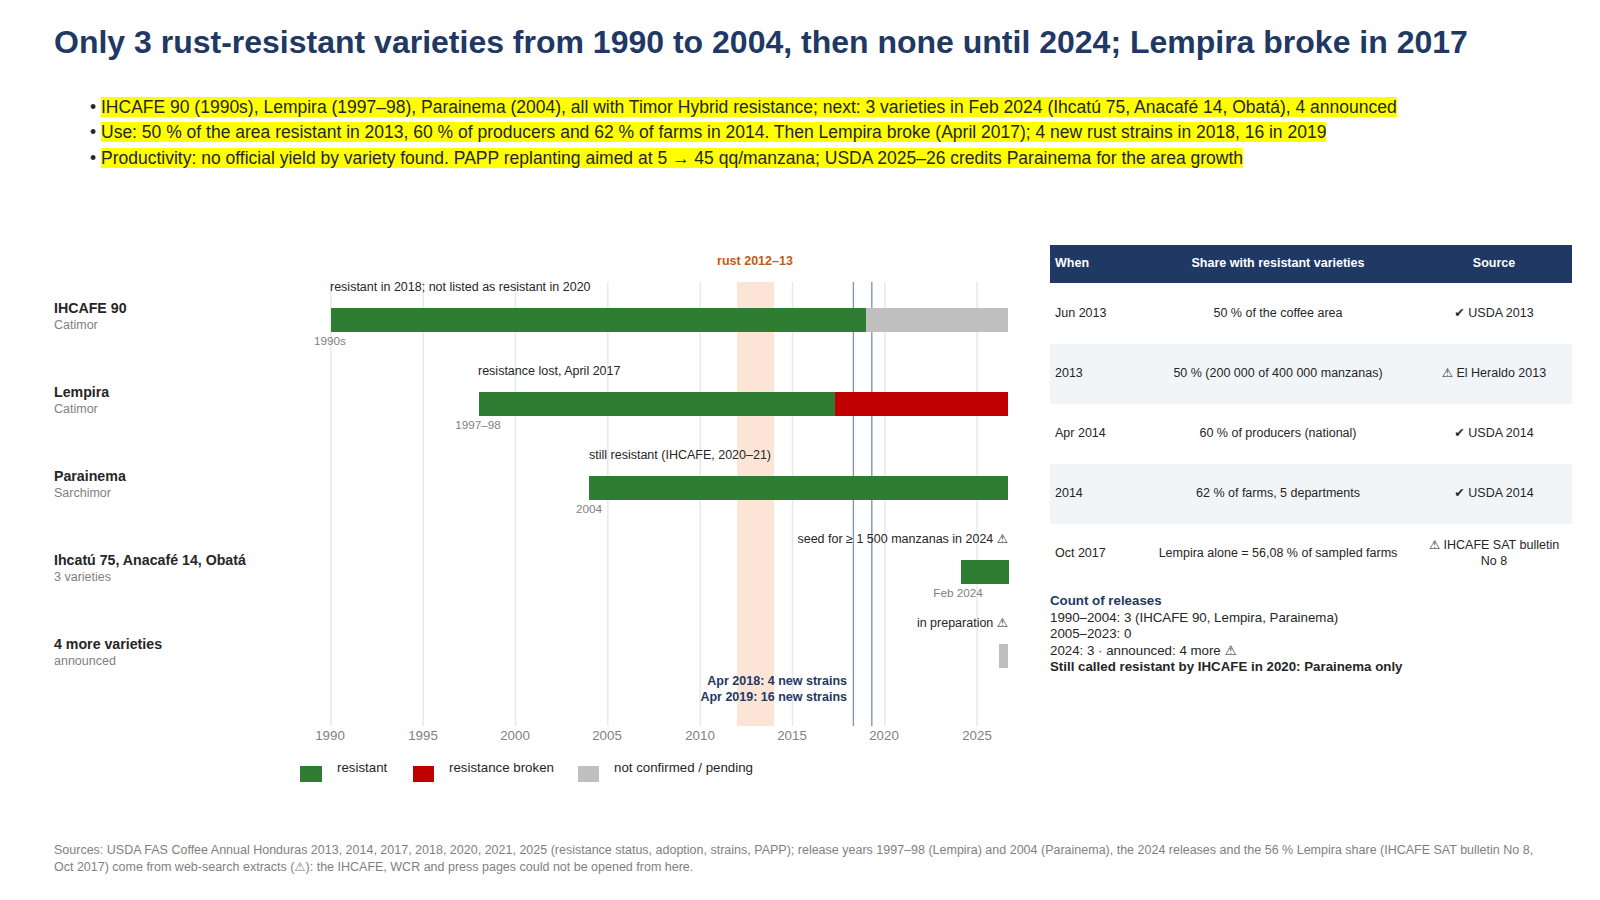
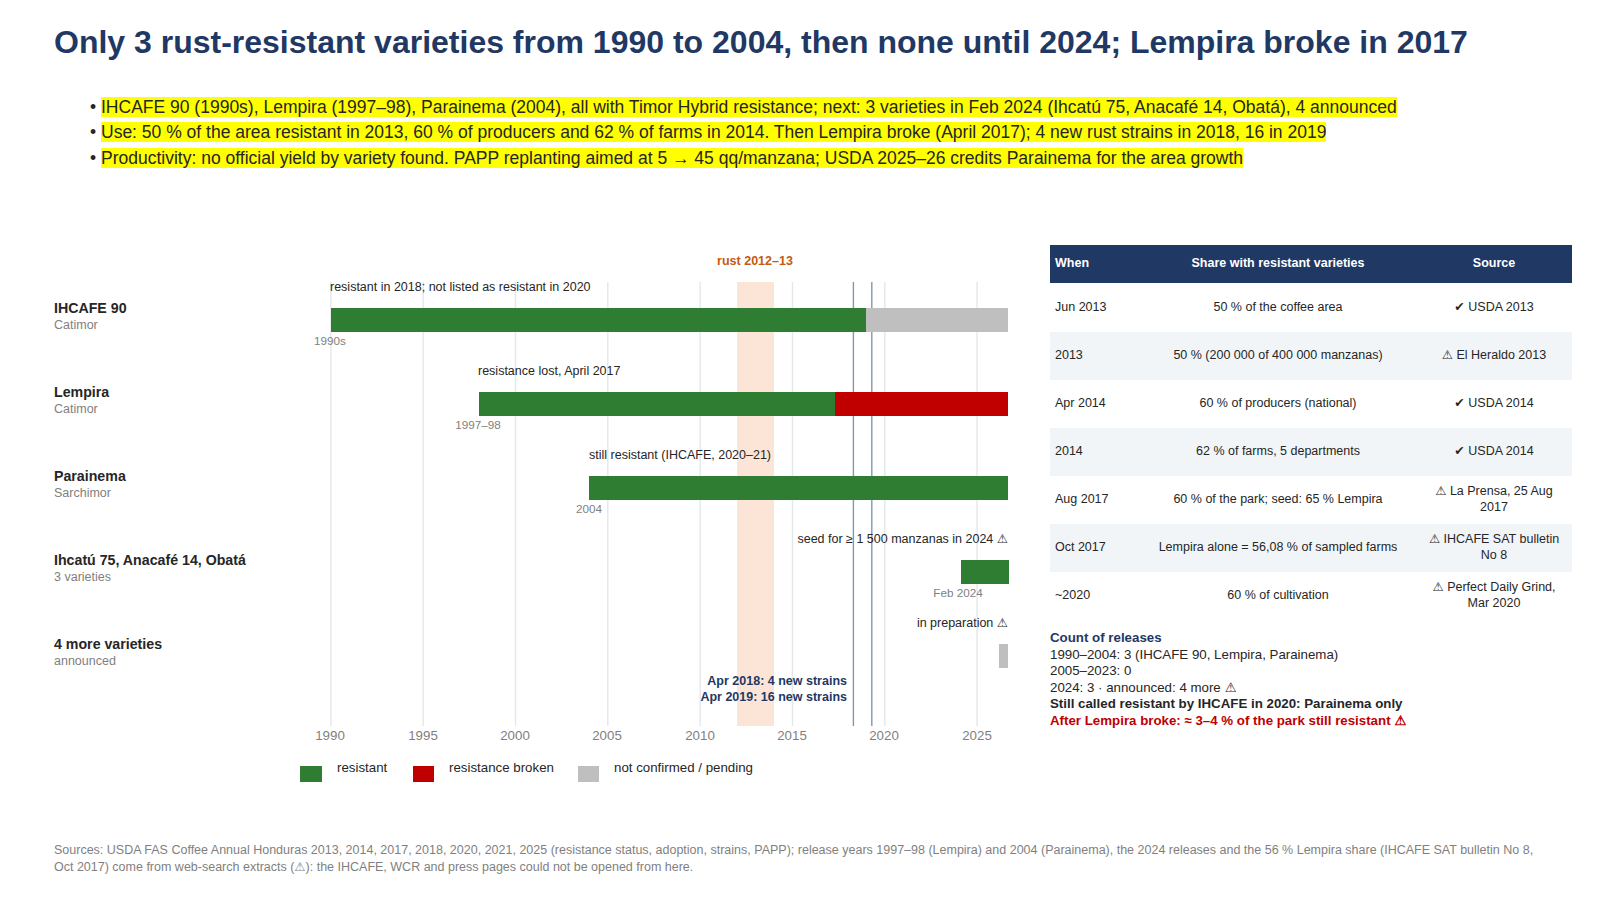
Add Varieties sheet to the Honduras area-drivers workbook
Year-by-year rust-resistant share (surveys 2013, 2014, 2017, 2020, each marked
read or unverified), Lempira share, events (releases, resistance loss, new
strains, renovation programmes), the IHCAFE releases, and an editable estimate
of the share still resistant after Lempira broke in April 2017. The deck and
the finance workbook pick up the new adoption points.

Claude-Session: https://claude.ai/code/session_01GCSUFXh2mYdWNgg7VCeE1G

diff --git a/research/honduras/excel/build_drivers_xlsx.py b/research/honduras/excel/build_drivers_xlsx.py
@@ -46,6 +46,7 @@ rg = wb.add('Regimes')
 mg = wb.add('Margin')
 rw = wb.add('Rust_2012')
 qt = wb.add('USDA_quotes')
+vt = wb.add('Varieties')
 
 # ---------------- Annual ----------------
 cols = [('Year (MY start)', None), ('Marketing year', None), ('Bearing area (1000 ha)', 'bear'), ('Non-bearing area (1000 ha)', 'nonb'),
@@ -252,6 +253,81 @@ for k, q in enumerate(QUOTES):
 qt.widths = {1: 10, 2: 11, 3: 110, 4: 28}
 
 # ---------------- README ----------------
+# ---------------- Varieties ----------------
+sys.path.insert(0, DATA)
+import finance_varieties as FV
+OKS, WARNS = Style(bold=True, color='2E7D32'), Style(bold=True, color='C00000')
+TAGV = {'USDA': ('✔ USDA report (read)', OKS), 'PRESS': ('⚠ web extract, not verified', WARNS)}
+vt.set(1, 1, 'Rust-resistant varieties: what is planted, what still resists (2005–2026)', TITLE)
+vt.set(2, 1, 'One row per marketing year. Areas come from the Annual sheet (formulas). Resistant share = only the survey figures found, never interpolated. '
+             '✔ = read in a USDA report; ⚠ = web-search extract, page blocked here, to be checked.', SUB)
+vt.row(4, 1, ['Year (MY start)', 'Bearing area (1000 ha)', 'Non-bearing area (1000 ha)', 'Resistant share (%)', 'What the % measures', 'Status',
+              'Lempira share (%)', 'Event that year', 'Source'], H)
+OBS = {}
+for a_ in FV.ADOPTION:
+    y_ = 2020 if a_['when'] == '~2020' else int(a_['when'][-4:])
+    OBS.setdefault(y_, []).append(a_)
+EVENTS = {2012: 'Rust epidemic starts (Central America)', 2013: 'Rust: 25 % of area hit (71 000 ha); emergency credit; 50 % of area still susceptible',
+          2014: 'April survey: national incidence 12 %; early-warning system (SAT) set up', 2015: 'PAPP / PEPP replanting for ~23 000 small producers (1 manzana, no interest)',
+          2016: 'Renovated plots start bearing', 2017: 'April: IHCAFE confirms Lempira has lost its resistance (3 % of Lempira plants infected)',
+          2018: 'April: 4 new rust strains; Parainema and IHCAFE 90 still resistant', 2019: 'April: 16 new rust strains identified',
+          2020: 'USDA: only Parainema named as still resistant', 2021: 'Eta and Iota: 15–25 % incidence in 5 departments (end 2020)',
+          2023: 'IHCAFE renovation programme 2023–2027: 33 000 producers, 250 000 manzanas (63 % of the park)',
+          2024: 'Feb: 3 new varieties (Ihcatú 75, Anacafé 14 SHN, Obatá SHN) ⚠; seed for ≥ 1 500 manzanas',
+          2025: 'USDA: area growth "driven by the introduction of the Parainema variety"; ≥ 4 more varieties announced ⚠',
+          2026: 'March: national incidence 8.44 %, highest reported since 2014'}
+VR0 = 5
+for i, y in enumerate(Y):
+    r = VR0 + i
+    ra = R0 + i
+    vt.set(r, 1, y, C)
+    vt.set(r, 2, A['bearing_kha'][i], F0, 'Annual!%s%d' % (col_letter(CI['bear']), ra))
+    vt.set(r, 3, A['nonbearing_kha'][i], F0, 'Annual!%s%d' % (col_letter(CI['nonb']), ra))
+    obs = OBS.get(y, [])
+    main = [o for o in obs if o.get('resistant') is not None]
+    if main:
+        o = sorted(main, key=lambda o: o['status'] != 'USDA')[0]
+        vt.set(r, 4, o['resistant'], IN0)
+        vt.set(r, 5, '; '.join('%s: %d %% of %s' % (x['when'], x['resistant'], x['scope']) for x in main), WRAP)
+        vt.set(r, 6, TAGV[o['status']][0], TAGV[o['status']][1])
+        vt.set(r, 9, '; '.join(x['src'] for x in main), WRAP)
+    lem = [o for o in obs if o.get('lempira')]
+    if lem:
+        vt.set(r, 7, lem[0]['lempira'], IN2)
+    vt.set(r, 8, EVENTS.get(y, ''), WRAP)
+r = VR0 + len(Y) + 1
+vt.set(r, 1, 'Varieties released by IHCAFE', B)
+r += 1
+vt.row(r, 1, ['Variety', 'Family', 'Released', '', 'Resistance status', 'Release year status', 'Year resistance lost', 'Source'], H)
+for v in FV.VARIETIES:
+    r += 1
+    vt.row(r, 1, [v['name'], v['family'], v['released'], '', v['resistance'], TAGV[v['year_status']][0], v['broke'] or '', v['src']], WRAP)
+r += 2
+vt.set(r, 1, 'After April 2017: how much of the park still resists? (order of magnitude, from two web extracts; edit the blue cells)', B)
+E0 = r + 1
+est = [('Share of the park in "resistant" varieties, Aug 2017 (La Prensa ⚠)', 60, None, IN0),
+       ('Lempira share of the farms monitored by the early-warning system, Oct 2017 (IHCAFE bulletin No 8 ⚠)', 56.08, None, IN2),
+       ('Other resistant varieties (IHCAFE 90, Parainema): difference', 60 - 56.08, 'MAX(0,B%d-B%d)' % (E0, E0 + 1), F1),
+       ('Resistance of IHCAFE 90 to the new strain, % (IHCAFE via La Prensa ⚠)', 80, None, IN0),
+       ('Resistance of Parainema to the new strain, % (same source ⚠)', 100, None, IN0),
+       ('Share of the park still resistant after April 2017, low (all IHCAFE 90)', (60 - 56.08) * 0.8, 'B%d*B%d/100' % (E0 + 2, E0 + 3), F1),
+       ('Share of the park still resistant after April 2017, high (all Parainema)', (60 - 56.08) * 1.0, 'B%d*B%d/100' % (E0 + 2, E0 + 4), F1),
+       ('Seed demand 2017: Lempira, % (La Prensa ⚠)', 65, None, IN0),
+       ('Seed demand 2017: other varieties (not Catuaí), %', 10, None, IN0),
+       ('Lempira share of resistant seed sold in 2017, at least', 65 / 75, 'B%d/(B%d+B%d)' % (E0 + 7, E0 + 7, E0 + 8), Style(fmt='0.0%'))]
+for k, (lab, val, f, st_) in enumerate(est):
+    vt.set(E0 + k, 1, lab, WRAP)
+    vt.set(E0 + k, 2, val, st_, f)
+r = E0 + len(est) + 1
+for t in ['Reading: in 2013–2020 about 60 % of the park was planted with varieties called resistant, but most of it was Lempira. When Lempira broke in April 2017, '
+          'the share that still resisted fell to a few percent (IHCAFE 90 and Parainema), which is why the 2023–2027 renovation targets 63 % of the park.',
+          'Caution: the two main inputs come from different samples (whole park vs farms monitored for rust) and could not be opened here. Treat the result as an order of magnitude.',
+          'Not found anywhere we could reach: a yearly series of area by variety. IHCAFE publishes it in its statistical reports and coffee census (ihcafe.hn, blocked by the network policy).']:
+    vt.set(r, 1, t, RED if t.startswith('Reading') else WRAP)
+    r += 1
+vt.widths = {1: 64, 2: 12, 3: 12, 4: 12, 5: 45, 6: 24, 7: 11, 8: 60, 9: 45}
+vt.freeze = (5, 2)
+
 lines = [
     ('Honduras arabica : ce qui fait bouger la surface et les arbres (2005–2026)', TITLE),
     ('Une ligne par campagne (octobre N – septembre N+1). Chiffres en bleu = copiés des sources ; en noir = formules. Les feuilles se recalculent dans Excel.', SUB),
@@ -262,6 +338,7 @@ lines = [
     ('Rust_2012 : la météo de 2011–2013 dans les 3 zones (pluie des pluviomètres GPCC, températures des stations), pour voir ce qui a favorisé la rouille.', WRAP),
     ('USDA_quotes : ce que disent les rapports de l\'attaché USDA, année par année (rouille, rénovation, terres, main-d\'œuvre, variétés, engrais).', WRAP),
     ('Production_1960_2026 : la production USDA du Honduras depuis 1960/61, avec la variation d\'une année sur l\'autre.', WRAP),
+    ('Varieties : variétés résistantes à la rouille (IHCAFE 90, Lempira, Parainema, sorties 2024), part du parc en variétés résistantes (enquêtes 2013, 2014, 2017, 2020), événements année par année, et estimation de la part encore réellement résistante après la perte de résistance de Lempira (avril 2017).', WRAP),
     ('', None),
     ('À SAVOIR AVANT D\'INTERPRÉTER', B),
     ('Les nombres d\'arbres de l\'USDA sont des estimations : 1 049 millions chaque année de 2006 à 2010, puis une densité fixe d\'environ 4 250 arbres/ha jusqu\'en 2017, et 6 400/ha depuis 2023. Depuis 2020, les deux tiers de la hausse des arbres viennent de cette densité, pas de nouvelles surfaces.', RED),

diff --git a/research/honduras/data/finance_varieties.py b/research/honduras/data/finance_varieties.py
@@ -69,9 +69,21 @@ ADOPTION = [
          quote='the number of coffee producers, growing coffee rust resistant varieties, is moving up to 60 percent and 40 percent of them are still using non-resistant types.'),
     dict(when='2014', scope='5 departments (60 % of area), % of FARMS', resistant=62, status='USDA', src='GAIN 2014 (USDA/TechnoServe baseline)',
          quote='62 percent of the coffee farms had resistant varieties to coffee leaf rust and 38 percent had varieties susceptible'),
+    dict(when='Aug 2017', scope='national coffee park (plants)', resistant=60, status='PRESS', src='La Prensa, 25 Aug 2017 (search extract)',
+         quote='60 % of the national coffee park is improved plants resistant to rust; national seed demand: 65 % Lempira, 25 % Catuaí, 10 % other varieties',
+         seed=dict(Lempira=65, Catuai=25, other=10)),
     dict(when='Oct 2017', scope='farms sampled by the rust early-warning system', resistant=None, lempira=56.08, status='PRESS',
          src='IHCAFE SAT bulletin No 8 (search snippet)', quote='Lempira = 56.08 % of sampled farms, 67.74 % of farms classed as susceptible'),
+    dict(when='~2020', scope='national, % of cultivation', resistant=60, status='PRESS', src='Perfect Daily Grind, Mar 2020 (search extract)',
+         quote='about 60 % of Honduran coffee is planted with resistant varieties (Lempira, IHCAFE 90, Parainema)'),
 ]
+# Resistance of the three IHCAFE varieties to the new rust strain (IHCAFE via La Prensa, Aug 2017; search extract)
+NEW_STRAIN_RESISTANCE = dict(when='Aug 2017', status='PRESS', src='La Prensa, 25 Aug 2017 (search extract)',
+                             values={'Lempira': 0, 'IHCAFE 90': 80, 'Parainema': 100},
+                             quote='Lempira is not immune to the new rust strain; IHCAFE 90 has 80 % resistance to it and Parainema 100 %')
+RENOVATION_VARIETIES = dict(when='2024-2026', status='PRESS', src='La Prensa / El Heraldo, IHCAFE seed programme (search extract)',
+                            varieties=['Parainema', 'Obatá SHN', 'Ihcatú 75', 'IHCAFE 90', 'Anacafé 14 SHN'],
+                            quote='varieties distributed for renovation: Parainema, Obatá, IHCATU 75, IHCAFE 90 and Anacafé 14')
 
 # ---------------------------------------------------------------- rust surveys
 RUST = [

diff --git a/research/honduras/slides/build_finance_deck.py b/research/honduras/slides/build_finance_deck.py
@@ -162,14 +162,16 @@ def slide_varieties():
     rows = [['When', 'Share with resistant varieties', 'Source']]
     for a in FV.ADOPTION:
         if a.get('resistant') is not None:
-            what = {'Jun 2013': 'of the coffee area', '2013': '(200 000 of 400 000 manzanas)', 'Apr 2014': 'of producers (national)', '2014': 'of farms, 5 departments'}[a['when']]
+            what = {'Jun 2013': 'of the coffee area', '2013': '(200 000 of 400 000 manzanas)', 'Apr 2014': 'of producers (national)', '2014': 'of farms, 5 departments',
+                    'Aug 2017': 'of the park; seed: 65 % Lempira', '~2020': 'of cultivation'}[a['when']]
             rows.append([a['when'], '%d %% %s' % (a['resistant'], what), ('✔ ' if a['status'] == 'USDA' else '⚠ ') + a['src'].split(' (')[0].replace('GAIN', 'USDA')])
         else:
             rows.append([a['when'], 'Lempira alone = %s %% of sampled farms' % fr(a['lempira']), '⚠ ' + a['src'].split(' (')[0]])
-    yb = p.table(8.75, 2.05, [0.75, 2.3, 1.3], [0.32] + [0.5] * (len(rows) - 1), rows, sz=7.5)
+    yb = p.table(8.75, 2.05, [0.75, 2.3, 1.3], [0.32] + [0.4] * (len(rows) - 1), rows, sz=7.5)
     p.text(8.75, yb + 0.08, 4.35, 1.2, [('Count of releases', dict(b=True, color=NAVY)),
                                         ('1990–2004: 3 (IHCAFE 90, Lempira, Parainema)', {}), ('2005–2023: 0', {}), ('2024: 3 · announced: 4 more ⚠', {}),
-                                        ('Still called resistant by IHCAFE in 2020: Parainema only', dict(b=True))], sz=8)
+                                        ('Still called resistant by IHCAFE in 2020: Parainema only', dict(b=True)),
+                                        ('After Lempira broke: ≈ 3–4 % of the park still resistant ⚠', dict(b=True, color=RED))], sz=8)
     p.source('Sources: USDA FAS Coffee Annual Honduras 2013, 2014, 2017, 2018, 2020, 2021, 2025 (resistance status, adoption, strains, PAPP); release years 1997–98 (Lempira) and 2004 (Parainema), '
              'the 2024 releases and the 56 % Lempira share (IHCAFE SAT bulletin No 8, Oct 2017) come from web-search extracts (⚠): the IHCAFE, WCR and press pages could not be opened from here.')
     return p
